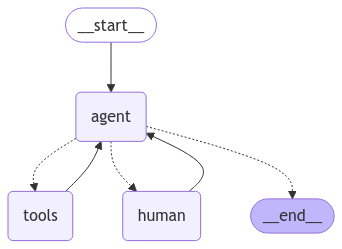
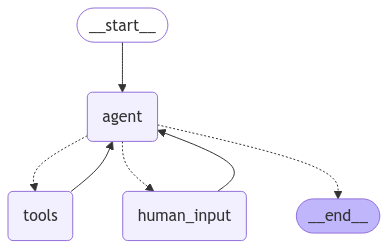
added human in the middle to revise question

diff --git a/src/news_search.py b/src/news_search.py
@@ -5,7 +5,7 @@ from langchain_core.tools import tool
 from langgraph.prebuilt import ToolNode
 from langgraph.graph import END, START, StateGraph, MessagesState
 from langgraph.checkpoint.memory import MemorySaver
-from langgraph.types import interrupt
+from langgraph.types import interrupt, Command
 from langsmith import traceable
 from nyt_api import NYTApi, ArchiveResponse
 import os
@@ -59,58 +59,64 @@ class NewsSearch:
         response = self.model.invoke(messages)
         return {"messages": [response]}
 
-
     def should_continue(self, state: MessagesState):
         last_message = state["messages"][-1]
         args = last_message.additional_kwargs
         response_metadata = last_message.response_metadata 
         token_usage = response_metadata.get("token_usage")
         completion_tokens = token_usage.get("completion_tokens") or 0
-        print(f"*last_message: {last_message}\n *args: {args}\n*response_metadata: {response_metadata}\n* token_usage: {token_usage}\ncompletion_tokens: {completion_tokens}")
         if args.get("tool_calls"):
             return "tools"
         elif token_usage and completion_tokens < 100:
-            return "human"
+            return "human_input"
         return END
     
-    def human(self, state: MessagesState):
-        last_message = state["messages"][-1]    
-        print(f"\nNot enough information to answer your question: \n\t{last_message.content}")
-        improved_question = interrupt({
-            "question": "Can you fill in the details > "
-            })   
-        print(f"improved_question: {improved_question}")
-
-        return {
-            "content": "Tell me about fires in January 2025"
-        }
-        
     @traceable
-    def invoke_workflow(self, user_input):
+    def human_input(self, state: MessagesState):
+        human_message = interrupt("human_input")
+        return {
+            "messages": [HumanMessage(content=human_message)],
+        }
+    
+    @traceable
+    def build_graph(self):
         graph_builder = StateGraph(MessagesState)
         graph_builder.add_node("agent", self.call_model)
         graph_builder.add_node("tools", self.tool_node)
-        graph_builder.add_node("human", self.human)
+        graph_builder.add_node("human_input", self.human_input)
 
         graph_builder.add_edge(START, "agent")
         graph_builder.add_edge("tools", "agent")
-        graph_builder.add_edge("human", "agent")
+        graph_builder.add_edge("human_input", "agent")
         graph_builder.add_conditional_edges("agent", self.should_continue)
 
         checkpointer = MemorySaver()
-        self.graph = graph_builder.compile(checkpointer=checkpointer)
-        self.graph.get_graph(xray=1).draw_mermaid_png(output_file_path="graph.png")
-        self.config = {"configurable": {"thread_id": 1}, "recursion_limit": 25}
-        final_state = self.graph.invoke(
-            {"messages": [HumanMessage(content=user_input)]},
-            config = self.config
+        graph = graph_builder.compile(checkpointer=checkpointer)
+        graph.get_graph(xray=1).draw_mermaid_png(output_file_path="graph.png")
+        return graph
+
+    def run_graph(self, question, config):
+        graph = self.build_graph()
+        config = {"configurable": {"thread_id": 1}, "recursion_limit": 5}
+        state = graph.invoke(
+            {"messages": [HumanMessage(content=question)]},
+            config = config
         )
 
-        messages = final_state.get("messages", [])
-        if messages:
-            return messages[-1].content
-        return "No response"
-    
+        messages = state.get("messages", [])
+        last_message = messages[-1]
+        content = messages[-1].content 
+        res = graph.get_state(config).next
+        if (len(res) > 0 and res[0] == 'human_input'):
+            print(f"\nWe need you to refine your question:")
+            improved_question = input(f"\n{content}\n> ")
+            final_state = graph.invoke(
+                Command(resume=improved_question),
+                config=config)
+        
+        content = last_message.content
+        return content
+
 
 def main(): 
     logging.basicConfig(filename="logs/news_search.log", level=logging.INFO)
@@ -119,8 +125,10 @@ def main():
         query = " ".join(sys.argv[1:])
         
     print(f"Running the NYT API search with query: {query}\n")
+    config = {"configurable": {"thread_id": 1}, "recursion_limit": 4}
+    
     news_search = NewsSearch()
-    response = news_search.invoke_workflow(query)
+    response = news_search.run_graph(question=query, config=config)
     print(f"# Response:\n{response}")
 
 if __name__ == "__main__":
